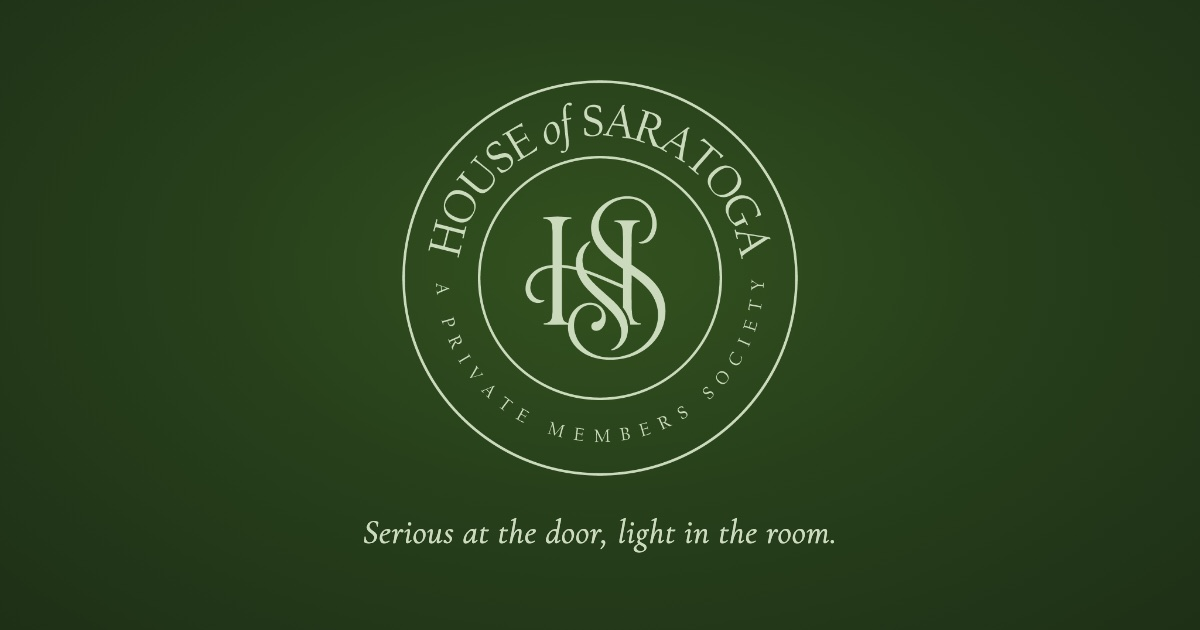
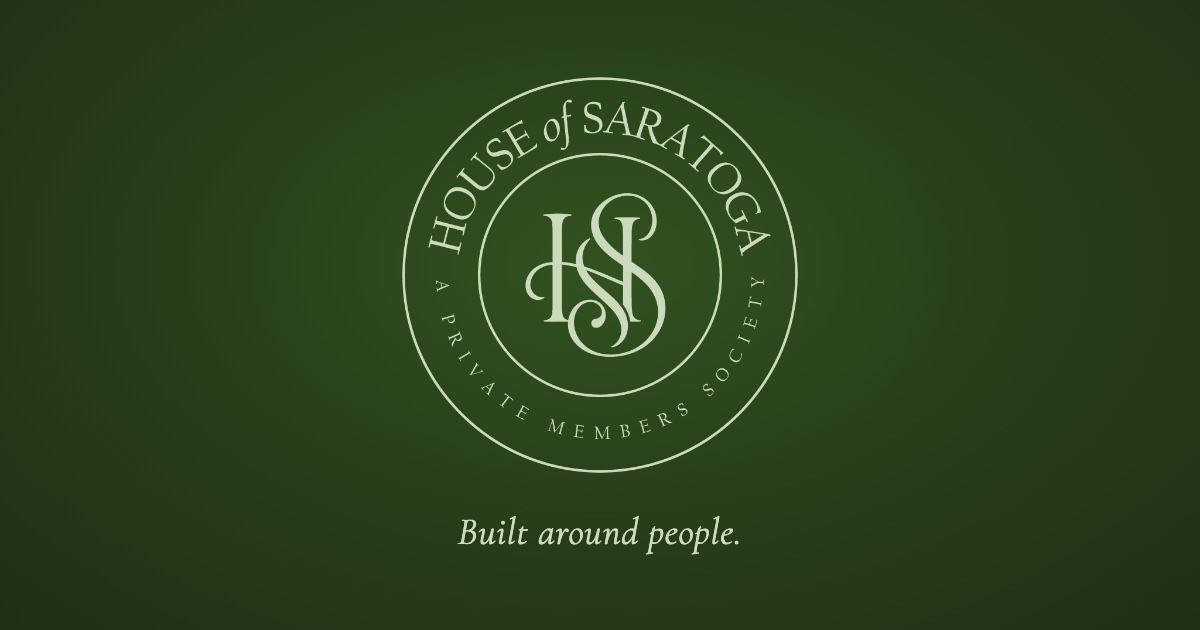
Testi del cliente, seconda revisione: motto Built around people, titoli e FAQ

diff --git a/index.html b/index.html
@@ -13,11 +13,11 @@
 <meta property="og:locale" content="it_IT">
 <meta property="og:url" content="https://houseofsaratoga.it/">
 <meta property="og:title" content="House of Saratoga — A Private Members Society">
-<meta property="og:description" content="Serious at the door, light in the room. Una comunità di persone selezionate, riunite da esperienze curate.">
+<meta property="og:description" content="Built around people. Una comunità di persone selezionate, riunite da esperienze curate.">
 <meta property="og:image" content="https://houseofsaratoga.it/assets/og-image.jpg">
 <meta property="og:image:width" content="1200">
 <meta property="og:image:height" content="630">
-<meta property="og:image:alt" content="Sigillo di House of Saratoga su fondo verde: Serious at the door, light in the room.">
+<meta property="og:image:alt" content="Sigillo di House of Saratoga su fondo verde: Built around people.">
 <meta name="twitter:card" content="summary_large_image">
 <meta name="twitter:image" content="https://houseofsaratoga.it/assets/og-image.jpg">
 <script type="application/ld+json">{"@context":"https://schema.org","@type":"Organization","name":"House of Saratoga","alternateName":"A Private Members Society","url":"https://houseofsaratoga.it/","logo":"https://houseofsaratoga.it/assets/apple-touch-icon.png","sameAs":["https://www.instagram.com/houseofsaratoga/"]}</script>
@@ -92,7 +92,7 @@
       </span>
       <span class="mark mark--seal"></span>
     </div>
-    <p class="hero__line reveal" style="--d:.35s" lang="en">Serious at the door,<br class="br-sm"> light in the room.</p>
+    <p class="hero__line reveal" style="--d:.35s" lang="en">Built around people.</p>
     <div class="hero__cta reveal" style="--d:.55s">
       <a class="btn btn--sage" href="#incontri">Gli incontri</a>
       <button class="btn btn--ghost" type="button" data-open-form="invite">Richiedi un invito</button>
@@ -106,7 +106,7 @@
 <!-- ───────── Manifesto ───────── -->
 <section class="section section--ink section--statement" aria-label="Manifesto">
   <div class="wrap">
-    <p class="statement reveal"><span>Le esperienze sono lo strumento. Servono a far incontrare le persone giuste nelle condizioni migliori,</span> perché nascano fiducia, relazioni e — col&nbsp;tempo&nbsp;— opportunità.</p>
+    <p class="statement reveal"><span>Le esperienze sono lo strumento. Servono a far incontrare le persone giuste nelle condizioni migliori,</span> perché nascano fiducia, relazioni e opportunità.</p>
     <div class="statement__cta reveal" style="--d:.1s">
       <button class="btn btn--ghost" type="button" data-open-form="invite">Richiedi un invito</button>
       <a class="statement__link" href="#incontri">Gli incontri <span aria-hidden="true">→</span></a>
@@ -251,7 +251,7 @@
     <div class="section__head section__head--split">
       <div class="head-copy">
         <p class="eyebrow reveal">Gli incontri</p>
-        <h2 id="incontri-title" class="display display--xl reveal" style="--d:.05s">Pochi posti.<br><em>Per scelta.</em></h2>
+        <h2 id="incontri-title" class="display display--xl reveal" style="--d:.05s">Pochi posti,<br><em>per scelta.</em></h2>
       </div>
       <p class="lede lede--light reveal" style="--d:.1s">Non organizziamo semplicemente eventi. Creiamo occasioni per vivere qualcosa di speciale, insieme a persone che vale la pena conoscere.</p>
     </div>
@@ -339,7 +339,7 @@
     <div class="section__head">
       <p class="eyebrow reveal">L’ammissione</p>
       <h2 id="ammissione-title" class="display display--xl reveal" style="--d:.05s">L’esclusività sta<br>nella selezione,<br><em>non nel prezzo.</em></h2>
-      <p class="lede lede--light reveal" style="--d:.1s">Non cerchiamo status o titoli. Cerchiamo persone che abbiano qualcosa da condividere e il desiderio di far parte di una comunità.</p>
+      <p class="lede lede--light reveal" style="--d:.1s">Non cerchiamo status o titoli. Cerchiamo persone che abbiano qualcosa da condividere e il desiderio di far parte di una community.</p>
     </div>
 
     <ol class="steps">
@@ -409,7 +409,7 @@
         <p>Dipende dall’esperienza. La guest list è sempre curata.</p>
       </details>
       <details class="qa">
-        <summary>Si può comprare l’ammissione?</summary>
+        <summary>Si può pagare per l’ammissione?</summary>
         <p>No. L’accesso alla House non dipende dalla disponibilità economica.</p>
       </details>
     </div>
@@ -435,7 +435,7 @@
   <div class="wrap">
     <div class="footer__brand">
       <span class="mark mark--stacked footer__logo" role="img" aria-label="House of Saratoga — A private members society"></span>
-      <p class="footer__line" lang="en">Serious at the door, light in the room.</p>
+      <p class="footer__line" lang="en">Built around people.</p>
     </div>
 
     <div class="footer__cols">
